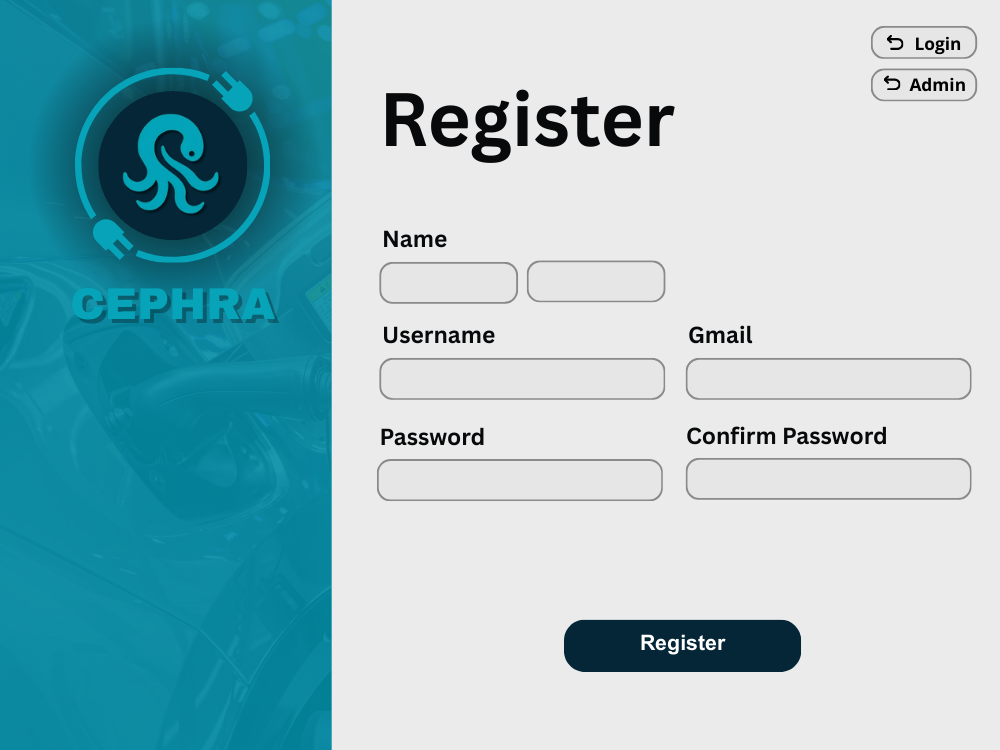
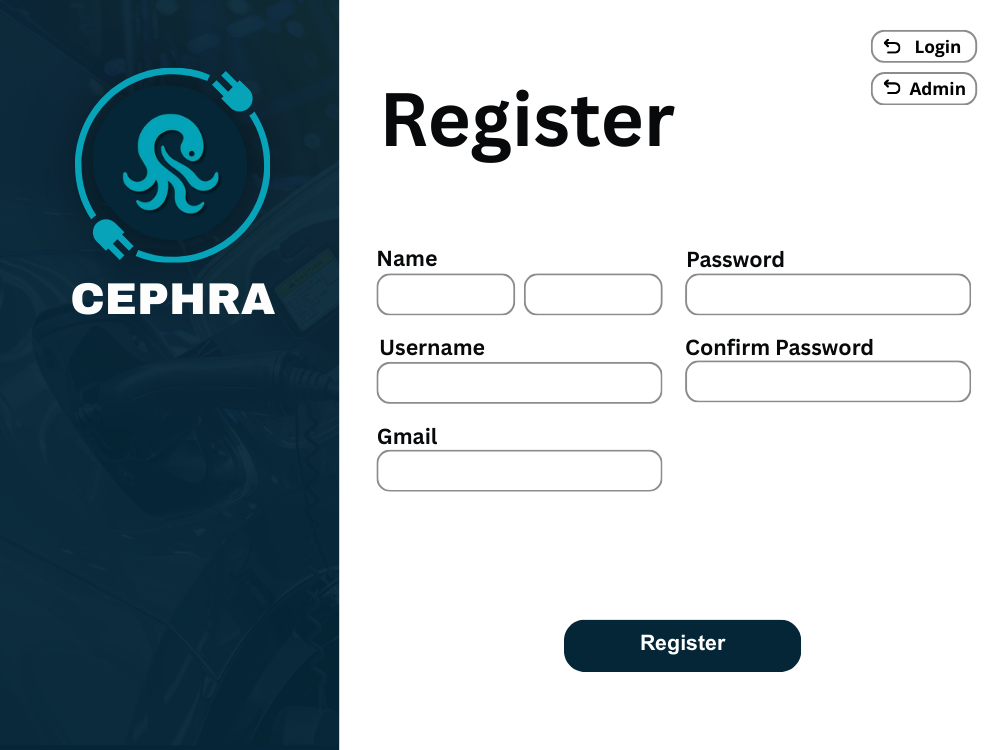
"register"

diff --git a/src/main/java/cephra/Admin/AdminRegister.java b/src/main/java/cephra/Admin/AdminRegister.java
@@ -54,7 +54,7 @@ public class AdminRegister extends javax.swing.JPanel {
             }
         });
         add(See1);
-        See1.setBounds(900, 460, 80, 40);
+        See1.setBounds(900, 362, 80, 40);
 
         See.setIcon(new javax.swing.ImageIcon(getClass().getResource("/cephra/Cephra Images/EyeClose.png"))); // NOI18N
         See.setBorderPainted(false);
@@ -66,7 +66,7 @@ public class AdminRegister extends javax.swing.JPanel {
             }
         });
         add(See);
-        See.setBounds(610, 460, 60, 40);
+        See.setBounds(910, 274, 60, 40);
 
         username.setFont(new java.awt.Font("Segoe UI", 0, 24)); // NOI18N
         username.setBorder(null);
@@ -76,7 +76,7 @@ public class AdminRegister extends javax.swing.JPanel {
             }
         });
         add(username);
-        username.setBounds(388, 362, 260, 37);
+        username.setBounds(388, 364, 260, 37);
 
         email.setFont(new java.awt.Font("Segoe UI", 0, 24)); // NOI18N
         email.setBorder(null);
@@ -86,7 +86,7 @@ public class AdminRegister extends javax.swing.JPanel {
             }
         });
         add(email);
-        email.setBounds(700, 360, 260, 37);
+        email.setBounds(388, 452, 260, 37);
 
         RegisterBTN.setBorderPainted(false);
         RegisterBTN.setContentAreaFilled(false);
@@ -106,7 +106,7 @@ public class AdminRegister extends javax.swing.JPanel {
             }
         });
         add(pass);
-        pass.setBounds(390, 460, 260, 37);
+        pass.setBounds(694, 276, 260, 37);
 
         ConPass.setFont(new java.awt.Font("Segoe UI", 0, 24)); // NOI18N
         ConPass.setBorder(null);
@@ -116,7 +116,7 @@ public class AdminRegister extends javax.swing.JPanel {
             }
         });
         add(ConPass);
-        ConPass.setBounds(700, 460, 260, 38);
+        ConPass.setBounds(694, 363, 260, 37);
 
         log.setBorderPainted(false);
         log.setContentAreaFilled(false);
@@ -147,7 +147,7 @@ public class AdminRegister extends javax.swing.JPanel {
             }
         });
         add(Firstname);
-        Firstname.setBounds(390, 263, 120, 37);
+        Firstname.setBounds(388, 276, 120, 37);
 
         LastName.setFont(new java.awt.Font("Segoe UI", 0, 24)); // NOI18N
         LastName.setBorder(null);
@@ -157,7 +157,7 @@ public class AdminRegister extends javax.swing.JPanel {
             }
         });
         add(LastName);
-        LastName.setBounds(533, 263, 120, 37);
+        LastName.setBounds(533, 276, 120, 37);
 
         jLabel1.setIcon(new javax.swing.ImageIcon(getClass().getResource("/cephra/Cephra Images/ADMINregister.png"))); // NOI18N
         add(jLabel1);
